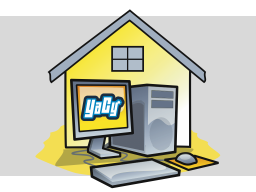
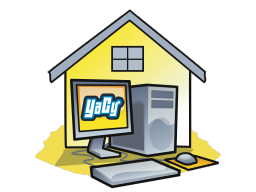
better use case selection added transparency to pictures
git-svn-id: https://svn.berlios.de/svnroot/repos/yacy/trunk@4855 6c8d7289-2bf4-0310-a012-ef5d649a1542

diff --git a/htroot/ConfigBasic.html b/htroot/ConfigBasic.html
@@ -38,19 +38,14 @@
           <fieldset>
           <table border="0">
           <tr>
-            <td width="33%">Community-based web search</td>
-          	<td width="33%">Search portal for your own web pages</td>
-          	<td width="33%">Intranet Indexing</td>
+            <td width="33%"><input type="radio" name="usecase" value="freeworld" id="usecaseFreeworld" #(freeworldChecked)#::checked="checked"#(/freeworldChecked)# /><label for="usecaseFreeworld">Community-based web search</label></td>
+          	<td width="33%"><input type="radio" name="usecase" value="portal" id="usecasePortal" #(portalChecked)#::checked="checked"#(/portalChecked)# /><label for="usecasePortal">Search portal for your own web pages</label></td>
+          	<td width="33%"><input type="radio" name="usecase" value="intranet" id="usecaseIntranet" #(intranetChecked)#::checked="checked"#(/intranetChecked)# /><label for="usecaseIntranet">Intranet Indexing</label></td>
           </tr>
           <tr>
-            <td><img src="/env/grafics/usecase_freeworld.png"</td>
-            <td><img src="/env/grafics/usecase_webportal.png"</td>
-            <td><img src="/env/grafics/usecase_intranet.png"</td>
-          </tr>
-          <tr>
-            <td align="center"><input type="radio" name="usecase" value="freeworld" id="usecaseFreeworld" #(freeworldChecked)#::checked="checked"#(/freeworldChecked)# /></td>
-            <td align="center"><input type="radio" name="usecase" value="portal" id="usecasePortal" #(portalChecked)#::checked="checked"#(/portalChecked)# /></td>
-            <td align="center"><input type="radio" name="usecase" value="intranet" id="usecaseIntranet" #(intranetChecked)#::checked="checked"#(/intranetChecked)# /></td>
+            <td><label for="usecaseFreeworld"><img src="/env/grafics/usecase_freeworld.png" /></label></td>
+            <td><label for="usecasePortal"><img src="/env/grafics/usecase_webportal.png" /></label></td>
+            <td><label for="usecaseIntranet"><img src="/env/grafics/usecase_intranet.png" /></label></td>
           </tr>
           <tr>
             <td><label for="usecaseFreeworld">join and support the global network 'freeworld', search the web with an uncensored user-owned search network</label></td>
